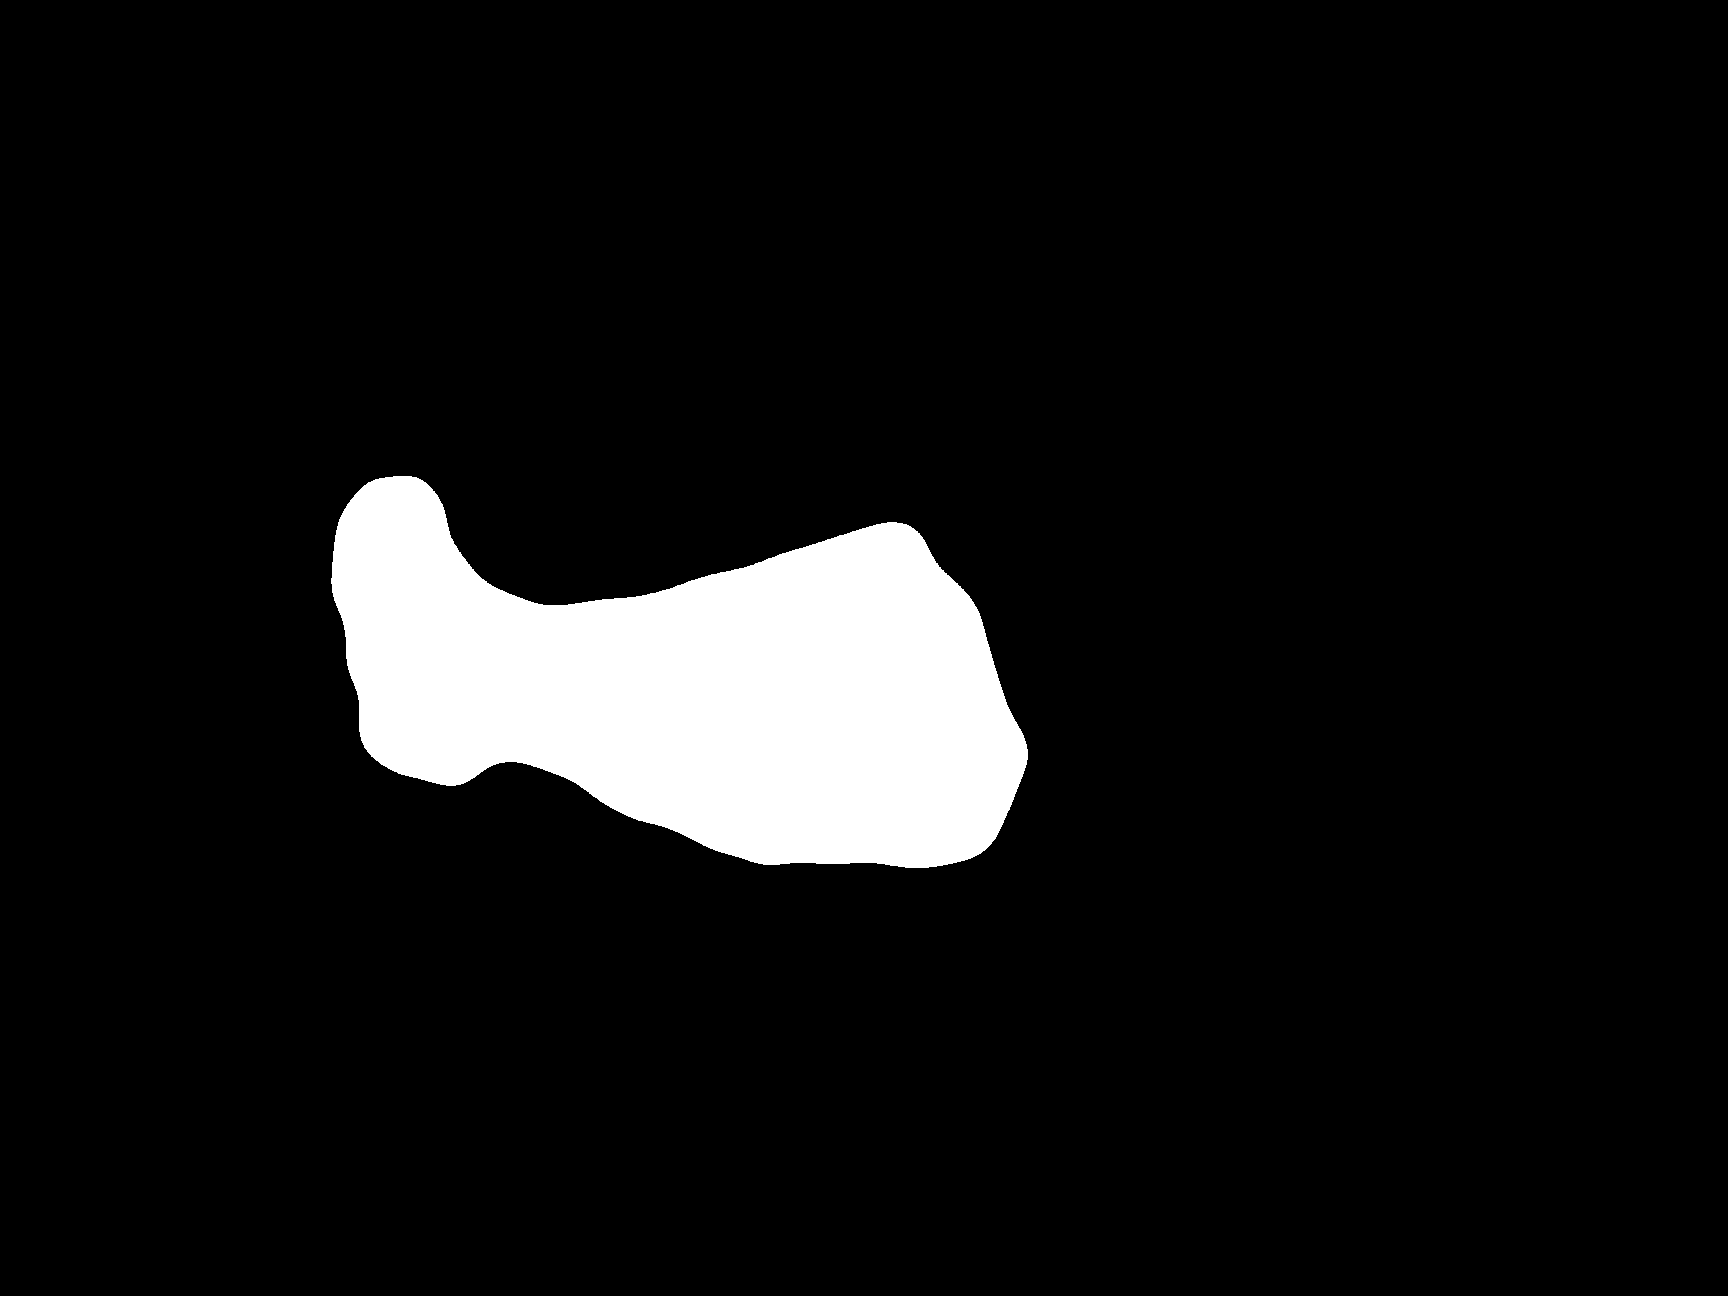
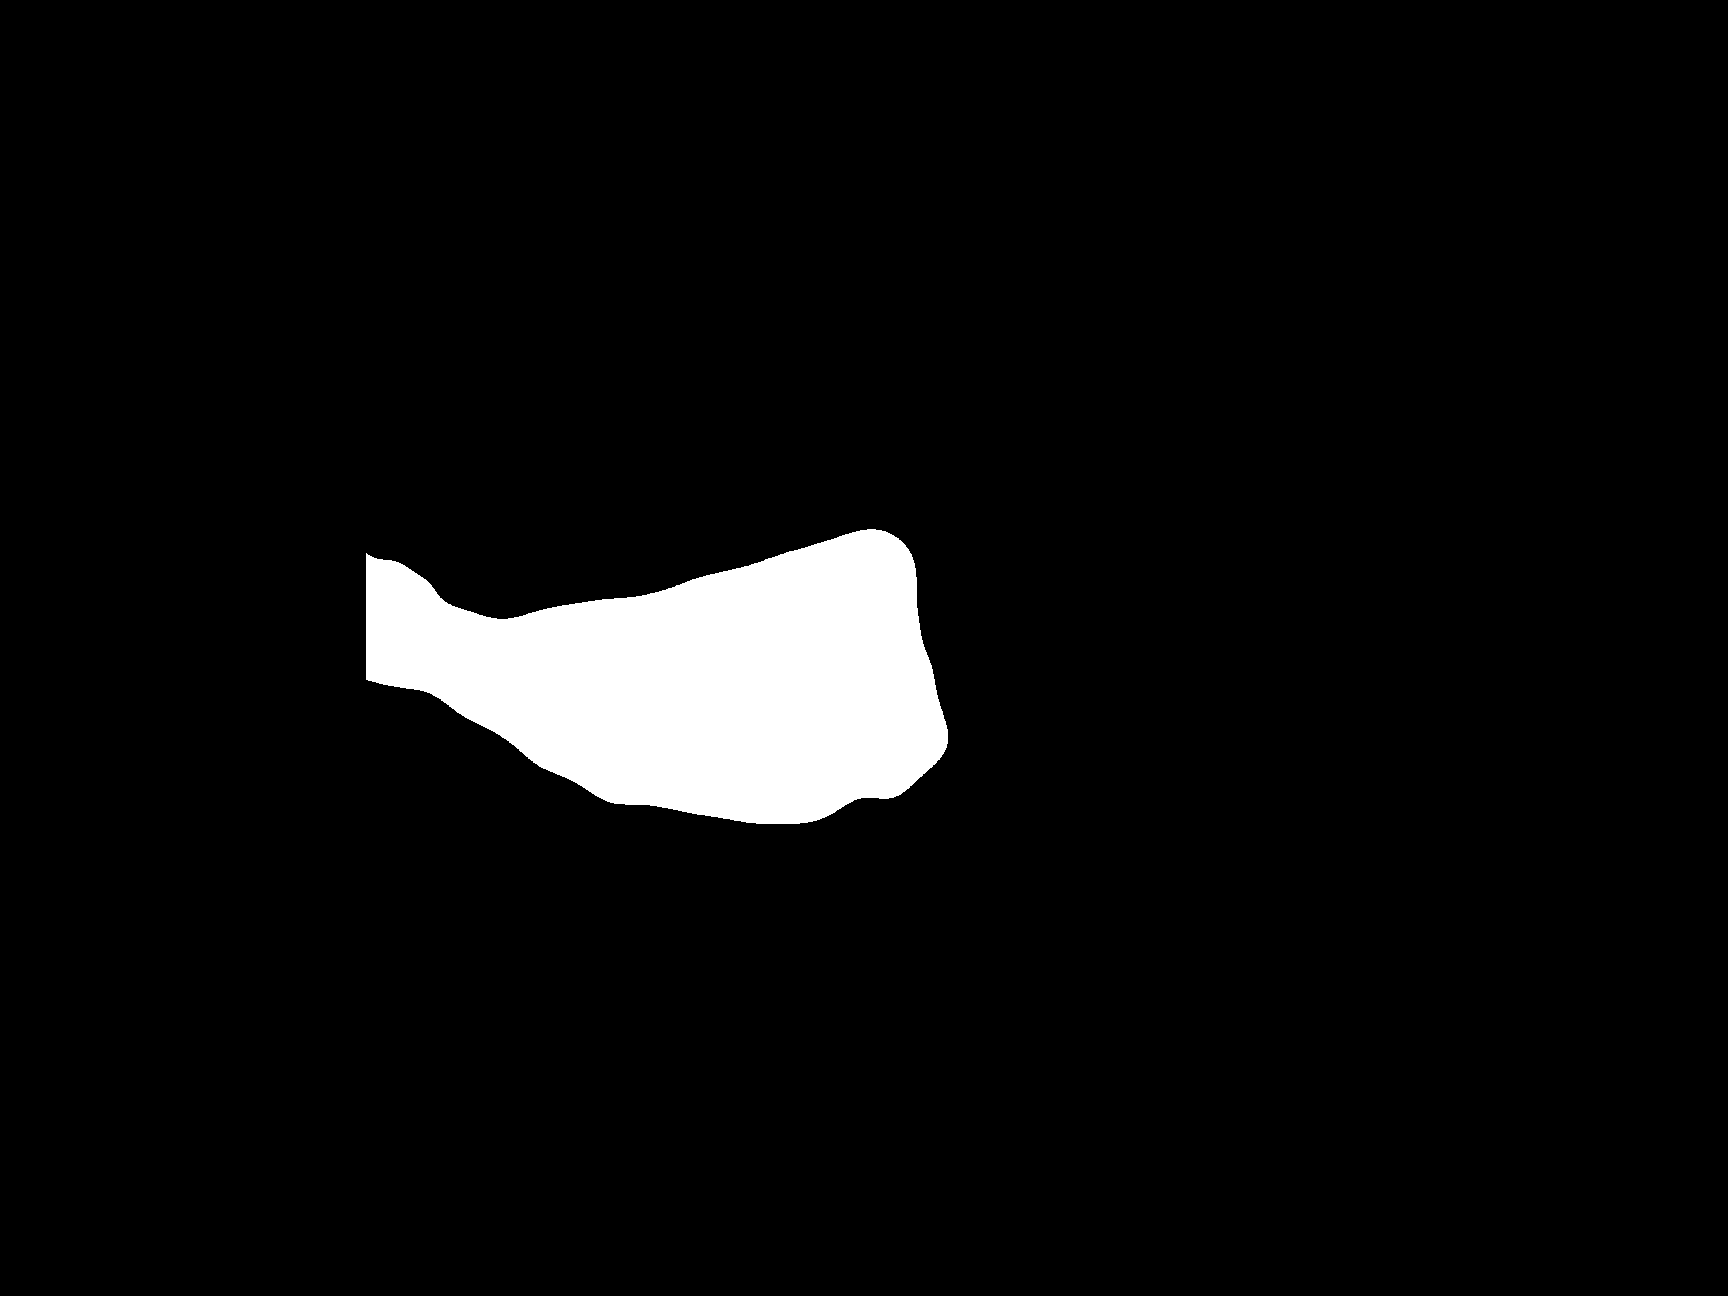
v5: border contact penalty, expansion centroid guard, valid-region clip
- score_candidate: multiplicative border penalty (×0.60 for 1 edge,
  ×0.35 for 2+ edges) — dark vegetation patches that bleed to the image
  border now score significantly lower than contained cave voids
- post-selection expansion: reject expansion if centroid drifts >20% of
  the shorter image dimension — prevents bridging the cave core to an
  unrelated dark zone across the frame
- process_image: hard-clip final refined mask to valid illumination
  columns (lc..rc) after refine_mask, excluding IR vignette/penumbra
  that GrabCut or contour smoothing may have reintroduced

Changed region(s): [[0.3438, 0.4012, 0.5938, 0.679], [0.1875, 0.3704, 0.3125, 0.6173]]

diff --git a/detect_cave.py b/detect_cave.py
@@ -458,8 +458,25 @@ def score_candidate(mask, gray_f32, weight_map, left_col, right_col,
         if valid_score < 0.5:
             lateral_pen = 0.4
 
+    # Border contact penalty: true cave entrances are contained within the frame.
+    # Dark patches that bleed to an image edge are likely cast shadows or vegetation
+    # extending beyond the visible area, not a cave void.
+    bp = 3  # border margin in pixels
+    border_touches = int(
+        (mask[:bp, :] > 0).any()       # top
+        + (mask[-bp:, :] > 0).any()    # bottom
+        + (mask[:, :bp] > 0).any()     # left
+        + (mask[:, -bp:] > 0).any()    # right
+    )
+    if border_touches == 0:
+        border_mult = 1.0
+    elif border_touches == 1:
+        border_mult = 0.60
+    else:
+        border_mult = 0.35
+
     total = (additive * area_mult * solidity_mult
-             * texture_mult * vert_gate * lateral_pen)
+             * texture_mult * vert_gate * lateral_pen * border_mult)
 
     return {
         "total":          round(float(total), 4),
@@ -480,6 +497,8 @@ def score_candidate(mask, gray_f32, weight_map, left_col, right_col,
         "valid_score":    round(float(valid_score), 3),
         "mean_inside":    round(float(mean_inside), 3),
         "mean_outside":   round(float(mean_outside), 3),
+        "border_touches": border_touches,
+        "border_mult":    round(float(border_mult), 3),
     }
 
 
@@ -810,6 +829,7 @@ def process_image(input_path, output_dir):
           f"depth={scores['depth']:.2f}  "
           f"area_m={scores['area_mult']:.2f}  "
           f"sol={scores['solidity']:.2f}(×{scores['sol_mult']:.2f})  "
+          f"border={scores['border_touches']}(×{scores['border_mult']:.2f})  "
           f"in={scores['mean_inside']:.2f}±{scores['texture']:.2f}  "
           f"out={scores['mean_outside']:.2f}")
 
@@ -876,7 +896,16 @@ def process_image(input_path, output_dir):
             if exp_area_frac <= 0.40 and exp_area_frac > best_area_frac * 0.8:
                 exp_mean  = float(gray_f32[expanded > 0].mean())
                 orig_mean = float(gray_f32[best_mask > 0].mean())
-                if exp_mean < orig_mean + 0.15:
+                # Reject expansion if centroid drifted far — guards against
+                # bridging to a disconnected dark zone (e.g. vegetation corner).
+                orig_pts = np.argwhere(best_mask > 0).astype(np.float32)
+                exp_pts  = np.argwhere(expanded > 0).astype(np.float32)
+                orig_cy_m, orig_cx_m = orig_pts.mean(axis=0)
+                exp_cy_m,  exp_cx_m  = exp_pts.mean(axis=0)
+                centroid_shift = (np.sqrt((exp_cx_m - orig_cx_m)**2
+                                         + (exp_cy_m - orig_cy_m)**2)
+                                  / min(h, w))
+                if exp_mean < orig_mean + 0.15 and centroid_shift <= 0.20:
                     print(f"  [{bn}] expanded {best_area_frac*100:.1f}% → "
                           f"{exp_area_frac*100:.1f}%")
                     best_mask = expanded
@@ -890,6 +919,15 @@ def process_image(input_path, output_dir):
         best_mask = gc_result
 
     refined = refine_mask(best_mask, gray_f32)
+
+    # Hard-clip final mask to valid illumination columns.
+    # Removes penumbra/vignetting zones from the result even when the initial
+    # candidate or GrabCut extended into them.
+    if lc > int(w * 0.05):
+        refined[:, :lc] = 0
+    if rc < int(w * 0.95):
+        refined[:, rc + 1:] = 0
+
     draw_result(gray_u8, refined, scores,
                 out_r, out_m, out_dv,
                 wmap, pn,
